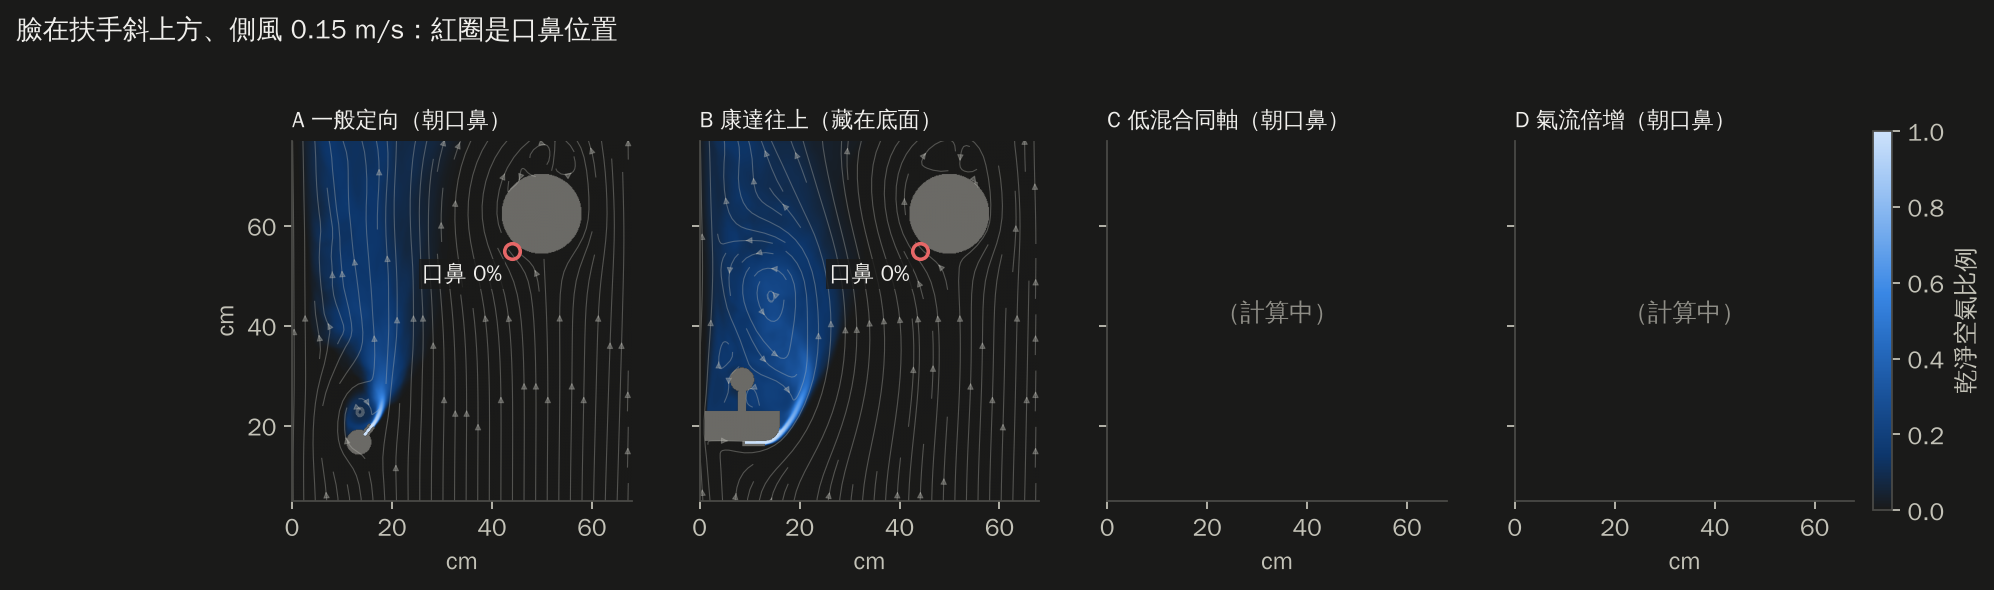
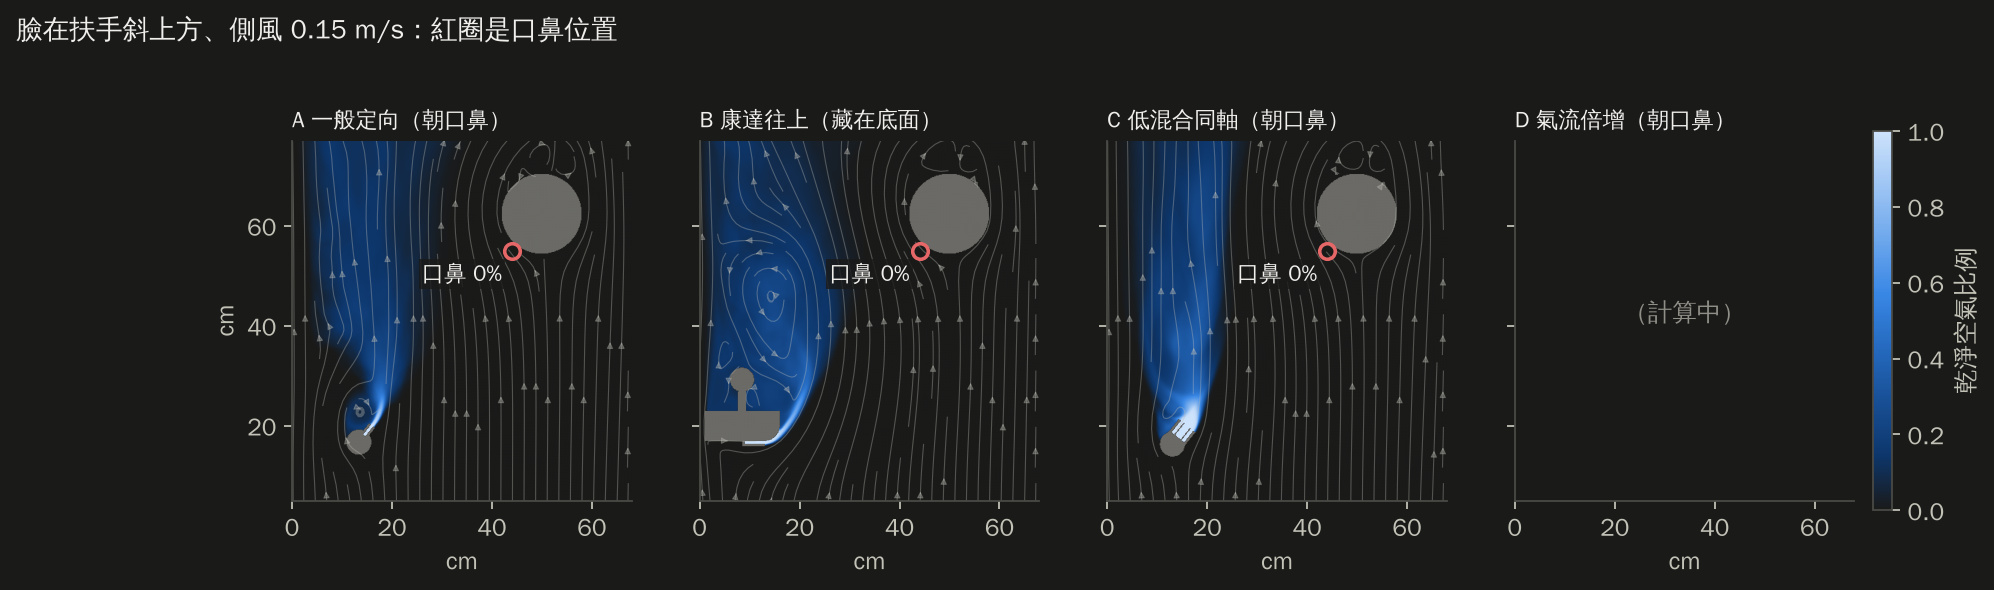
Face-above: 8/18 results (C crossflow 0.15)
Claude-Session: https://claude.ai/code/session_01CLMVR9XzZXdsSKCMSLUbBG

Changed region(s): [[0.5597, 0.2136, 0.7151, 0.8542]]

diff --git a/stairwell-airflow-sim/report/index.html b/stairwell-airflow-sim/report/index.html
@@ -173,7 +173,7 @@ footer { margin-top: 48px; padding-top: 20px; border-top: 1px solid var(--line);
   <h1>扶手送風模擬報告</h1>
   <p class="question">一根貫穿整棟樓的扶手，平時能不能流通、淨化空氣？火災時能幫逃生者做到什麼？用電腦模擬一項一項檢查。</p>
   <div class="meta"><span>日期 <b>2026-10-19</b></span><span>專案 <b>長庚大學工業設計學系 林煜宸</b></span><span>模擬與撰寫 <b>Claude（AI）</b></span></div>
-  <div class="progress" role="status"><p>臉在斜上方的出風口重算：已完成 7/18 組，整體約 43%，預計台灣時間 <b>00:07</b> 前後完成</p><div class="bar" aria-hidden="true"><span style="width:43.5%"></span></div><div class="chips"><span class="chip chip-run"><b>B 康達往上</b>・無側風　2%</span><span class="chip chip-done"><b>B 康達往上</b>・側風 0.15　完成</span><span class="chip chip-done"><b>B 康達往上</b>・側風 0.30　完成</span><span class="chip chip-done"><b>A 一般</b>・側風 0.30　完成</span><span class="chip chip-done"><b>C 低混合</b>・側風 0.30　完成</span><span class="chip chip-done"><b>D 倍增</b>・側風 0.30　完成</span><span class="chip chip-done"><b>A 一般</b>・無側風　完成</span><span class="chip chip-done"><b>A 一般</b>・側風 0.15　完成</span><span class="chip chip-wait"><b>D 倍增</b>・無側風　排隊中</span><span class="chip chip-run"><b>D 倍增</b>・側風 0.15　69%</span><span class="chip chip-run"><b>C 低混合</b>・側風 0.15　72%</span><span class="chip chip-wait"><b>C 低混合</b>・無側風　排隊中</span><span class="chip chip-run"><b>W 空氣牆 40</b>・側風 0.15　24%</span><span class="chip chip-wait"><b>W 空氣牆 20</b>・側風 0.15　排隊中</span><span class="chip chip-wait"><b>W 空氣牆 40</b>・側風 0.30　排隊中</span><span class="chip chip-wait"><b>W 空氣牆 20</b>・側風 0.30　排隊中</span><span class="chip chip-wait"><b>W 空氣牆 40</b>・無側風　排隊中</span><span class="chip chip-wait"><b>W 空氣牆 20</b>・無側風　排隊中</span></div><p class="muted small">進度在每次更新報告時重新計算（最後更新：台灣時間 10/19 22:48）。</p></div>
+  <div class="progress" role="status"><p>臉在斜上方的出風口重算：已完成 8/18 組，整體約 46%，預計台灣時間 <b>00:07</b> 前後完成</p><div class="bar" aria-hidden="true"><span style="width:46.4%"></span></div><div class="chips"><span class="chip chip-run"><b>B 康達往上</b>・無側風　6%</span><span class="chip chip-done"><b>B 康達往上</b>・側風 0.15　完成</span><span class="chip chip-done"><b>B 康達往上</b>・側風 0.30　完成</span><span class="chip chip-done"><b>A 一般</b>・側風 0.30　完成</span><span class="chip chip-done"><b>C 低混合</b>・側風 0.30　完成</span><span class="chip chip-done"><b>D 倍增</b>・側風 0.30　完成</span><span class="chip chip-done"><b>A 一般</b>・無側風　完成</span><span class="chip chip-done"><b>A 一般</b>・側風 0.15　完成</span><span class="chip chip-wait"><b>D 倍增</b>・無側風　排隊中</span><span class="chip chip-run"><b>D 倍增</b>・側風 0.15　97%</span><span class="chip chip-done"><b>C 低混合</b>・側風 0.15　完成</span><span class="chip chip-wait"><b>C 低混合</b>・無側風　排隊中</span><span class="chip chip-run"><b>W 空氣牆 40</b>・側風 0.15　42%</span><span class="chip chip-run"><b>W 空氣牆 20</b>・側風 0.15　0%</span><span class="chip chip-wait"><b>W 空氣牆 40</b>・側風 0.30　排隊中</span><span class="chip chip-wait"><b>W 空氣牆 20</b>・側風 0.30　排隊中</span><span class="chip chip-wait"><b>W 空氣牆 40</b>・無側風　排隊中</span><span class="chip chip-wait"><b>W 空氣牆 20</b>・無側風　排隊中</span></div><p class="muted small">進度在每次更新報告時重新計算（最後更新：台灣時間 10/19 22:52）。</p></div>
 </header>
 <nav class="toc" aria-label="章節">
   <a href="#summary">一頁看懂</a><a href="#method">怎麼測的</a><a href="#daily">平時：新風帶</a><a href="#fire">火災：守護路線</a>
@@ -445,16 +445,16 @@ footer { margin-top: 48px; padding-top: 20px; border-top: 1px solid var(--line);
 
 <section id="nozzle">
   <h2><span class="no">04</span>四種出風口比一比（臉在扶手斜上方）</h2>
-  <p class="oneliner">臉在扶手斜上方時（已完成 7/18 組），目前口鼻乾淨空氣最高的是 A 一般定向（無側風）：18%。</p>
+  <p class="oneliner">臉在扶手斜上方時（已完成 8/18 組），目前口鼻乾淨空氣最高的是 A 一般定向（無側風）：18%。</p>
   <figure class="fig render"><img class="img-any" src="assets/render_nozzles.webp" alt="四種扶手側面出風口形式比較" loading="lazy"><figcaption>四種出風口的造型構想（設計渲染圖）。圖中文字是設計構想，實際結果以下方模擬為準。</figcaption></figure>
   <figure class="fig"><img class="img-light" src="assets/s2f_saf_bars.png" alt="臉在斜上方時四種出風口的乾淨空氣比例" loading="lazy"><img class="img-dark" src="assets/s2f_saf_bars_dark.png" alt="臉在斜上方時四種出風口的乾淨空氣比例" loading="lazy"><figcaption>每條橫條代表 100% 的吸入空氣，彩色部分是來自出風口的乾淨空氣。黑色短線是最差 10% 的時刻。</figcaption></figure>
   <div class="points prose">
 <p><b>為什麼重算：</b>人扶著內側扶手下樓時，臉在扶手的<b>斜上方</b>，不是正前方。這組把口鼻放在出風口往樓梯側 28 cm、往上 35 cm（距離約 45 cm、仰角約 51°）；A、C、D 出風口改成朝向口鼻，B 改用藏在底面、往上轉的康達出風口。每公尺送風量都是 5 L/s，網格 1.5 mm。<span class="tag tag-sim">模擬結果</span></p>
-<div class="table-wrap"><table><thead><tr><th scope="col">出風口</th><th scope="col">無側風</th><th scope="col">側風 0.15</th><th scope="col">側風 0.30</th></tr></thead><tbody><tr><th scope="row">A 一般定向</th><td class="num">18%</td><td class="num">0%</td><td class="num">0%</td></tr><tr><th scope="row">B 康達往上</th><td class="num">計算中</td><td class="num">0%</td><td class="num">0%</td></tr><tr><th scope="row">C 低混合同軸</th><td class="num">計算中</td><td class="num">計算中</td><td class="num">0%</td></tr><tr><th scope="row">D 氣流倍增</th><td class="num">計算中</td><td class="num">計算中</td><td class="num">0%</td></tr><tr><th scope="row">W 空氣牆 20 L/s/m</th><td class="num">計算中</td><td class="num">計算中</td><td class="num">計算中</td></tr><tr><th scope="row">W 空氣牆 40 L/s/m</th><td class="num">計算中</td><td class="num">計算中</td><td class="num">計算中</td></tr></tbody></table></div>
-<p><b>目前看到的現象（6 組有側風的結果）：</b>有側風時，出風口吹出的乾淨空氣一離開扶手，就被由下往上的氣流帶著<b>貼著扶手正上方往上走</b>，到不了往樓梯側 28 cm 外的臉，口鼻都是 0%。B 康達往上確實有沿圓角轉向上（下面的圖看得到深藍色貼著導風腔轉彎），但轉上去之後一樣直直往上，沒有往臉的方向偏。<span class="tag tag-sim">模擬結果</span></p>
+<div class="table-wrap"><table><thead><tr><th scope="col">出風口</th><th scope="col">無側風</th><th scope="col">側風 0.15</th><th scope="col">側風 0.30</th></tr></thead><tbody><tr><th scope="row">A 一般定向</th><td class="num">18%</td><td class="num">0%</td><td class="num">0%</td></tr><tr><th scope="row">B 康達往上</th><td class="num">計算中</td><td class="num">0%</td><td class="num">0%</td></tr><tr><th scope="row">C 低混合同軸</th><td class="num">計算中</td><td class="num">0%</td><td class="num">0%</td></tr><tr><th scope="row">D 氣流倍增</th><td class="num">計算中</td><td class="num">計算中</td><td class="num">0%</td></tr><tr><th scope="row">W 空氣牆 20 L/s/m</th><td class="num">計算中</td><td class="num">計算中</td><td class="num">計算中</td></tr><tr><th scope="row">W 空氣牆 40 L/s/m</th><td class="num">計算中</td><td class="num">計算中</td><td class="num">計算中</td></tr></tbody></table></div>
+<p><b>目前看到的現象（7 組有側風的結果）：</b>有側風時，出風口吹出的乾淨空氣一離開扶手，就被由下往上的氣流帶著<b>貼著扶手正上方往上走</b>，到不了往樓梯側 28 cm 外的臉，口鼻都是 0%。B 康達往上確實有沿圓角轉向上（下面的圖看得到深藍色貼著導風腔轉彎），但轉上去之後一樣直直往上，沒有往臉的方向偏。<span class="tag tag-sim">模擬結果</span></p>
 <p><b>加算空氣牆：</b>先算完的幾組顯示，每公尺 5 L/s 的出風口在有側風時送不到斜上方的臉。所以把第 05 章表現最好的空氣牆（寬 80 mm、每公尺 20 或 40 L/s、水平往樓梯側吹）也放進同一個「臉在斜上方＋有頭」的測試，共 6 組，表格最後兩列。<span class="tag tag-sim">模擬結果</span></p>
 <p><b>無側風要算久一點：</b>沒有側風時氣流很慢，乾淨空氣要好幾秒才飄到臉旁。先算的 10 秒版本裡，B、C、D 的口鼻數值還在一路往上爬（B 從 0% 爬到 12%、C 從 15% 爬到 46%、D 從 0% 爬到 36%），代表還沒穩定，所以無側風的 B、C、D 和空氣牆延長到 24 秒重算，取後 16 秒平均。A 的 10 秒版本前後半段差不多（19%／18%），已經穩定。<span class="tag tag-sim">模擬結果</span></p>
-<p class="muted">已完成 7/18 組，其餘計算中；每完成一批就會更新。</p></div>
+<p class="muted">已完成 8/18 組，其餘計算中；每完成一批就會更新。</p></div>
   <figure class="fig"><img class="img-light" src="assets/s2f_vc00_fields.png" alt="臉在斜上方、無側風" loading="lazy"><img class="img-dark" src="assets/s2f_vc00_fields_dark.png" alt="臉在斜上方、無側風" loading="lazy"><figcaption>無側風：紅圈是口鼻位置，顏色越深代表出風口的空氣越多。</figcaption></figure>
   <figure class="fig"><img class="img-light" src="assets/s2f_vc15_fields.png" alt="臉在斜上方、側風 0.15 m/s" loading="lazy"><img class="img-dark" src="assets/s2f_vc15_fields_dark.png" alt="臉在斜上方、側風 0.15 m/s" loading="lazy"><figcaption>側風 0.15 m/s（由下往上）。</figcaption></figure>
   <figure class="fig"><div class="pending-box">動畫計算中</div><figcaption>動畫（臉在斜上方、側風 0.15 m/s）。每格 0.08 秒。</figcaption></figure>
